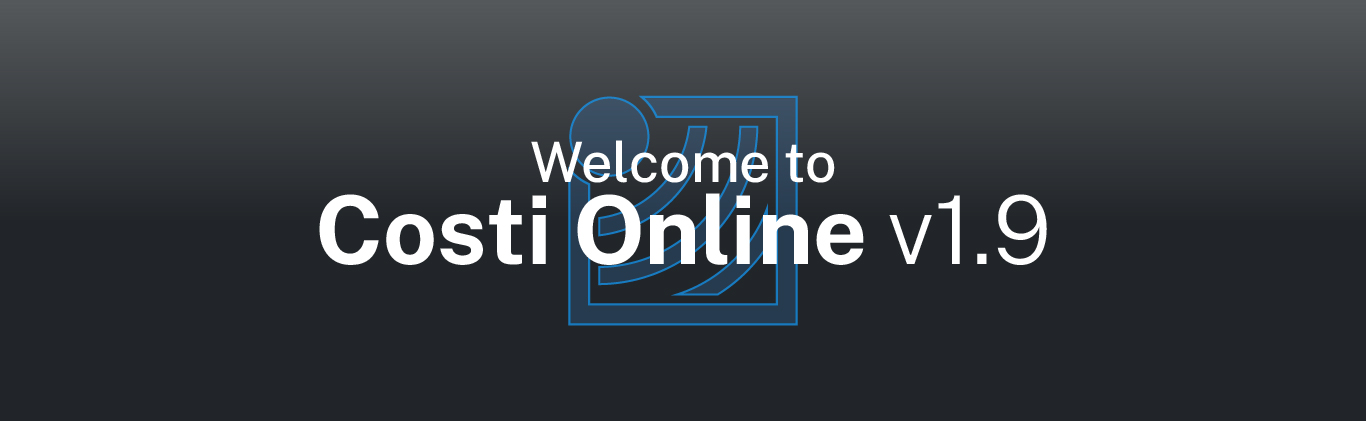
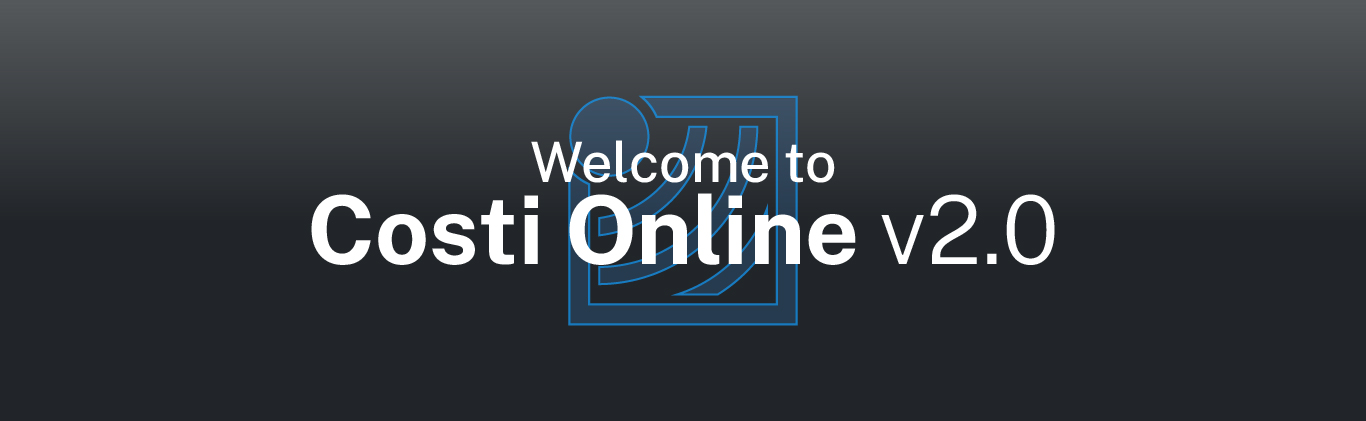
2.0.0 release! Announcement feature completed, updated home page slides and version information in gradle

Changed region(s): [[0.2152, 0.4632, 0.7994, 0.6485]]

diff --git a/src/main/resources/templates/main/Home.html b/src/main/resources/templates/main/Home.html
@@ -12,6 +12,16 @@
         <button type="button" data-bs-target="#desktop" data-bs-slide-to="0" class="active"></button>
         <button type="button" data-bs-target="#desktop" data-bs-slide-to="1"></button>
         <button type="button" data-bs-target="#desktop" data-bs-slide-to="2"></button>
+        <button type="button" data-bs-target="#desktop" data-bs-slide-to="3"></button>
+        <button type="button" data-bs-target="#desktop" data-bs-slide-to="4"></button>
+        <button type="button" data-bs-target="#desktop" data-bs-slide-to="5"></button>
+        <button type="button" data-bs-target="#desktop" data-bs-slide-to="6"></button>
+        <button type="button" data-bs-target="#desktop" data-bs-slide-to="7"></button>
+        <button type="button" data-bs-target="#desktop" data-bs-slide-to="8"></button>
+        <button type="button" data-bs-target="#desktop" data-bs-slide-to="9"></button>
+        <button type="button" data-bs-target="#desktop" data-bs-slide-to="10"></button>
+        <button type="button" data-bs-target="#desktop" data-bs-slide-to="11"></button>
+        <button type="button" data-bs-target="#desktop" data-bs-slide-to="12"></button>
     </div>
 
     <!-- The slideshow/carousel -->
@@ -24,16 +34,79 @@
             </div>
         </div>
         <div class="carousel-item">
-            <img th:src="@{/images/Slideshow/SJSU.jpg}" alt="Paramount Plus" class="d-block" style="width:100%">
+            <img th:src="@{/images/Slideshow/City.jpg}" alt="City" class="d-block" style="width:100%">
             <div class="carousel-caption">
-                <h3>Summer 2022 Break</h3>
+                <h3></h3>
+                <p></p>
             </div>
         </div>
         <div class="carousel-item">
-            <img th:src="@{/images/Slideshow/21.jpg}" alt="21" class="d-block" style="width:100%">
+            <img th:src="@{/images/Slideshow/Disney.jpg}" alt="Disney" class="d-block" style="width:100%">
             <div class="carousel-caption">
-                <h3>Costi Turns 21</h3>
-                <p>July 13th</p>
+                <h3>Disney Trip</h3>
+                <p></p>
+            </div>
+        </div>
+        <div class="carousel-item">
+            <img th:src="@{/images/Slideshow/East.jpg}" alt="East" class="d-block" style="width:100%">
+            <div class="carousel-caption">
+                <h3>East Coast Trip</h3>
+                <p></p>
+            </div>
+        </div>
+        <div class="carousel-item">
+            <img th:src="@{/images/Slideshow/Fair.jpg}" alt="Fair" class="d-block" style="width:100%">
+            <div class="carousel-caption">
+                <h3></h3>
+                <p></p>
+            </div>
+        </div>
+        <div class="carousel-item">
+            <img th:src="@{/images/Slideshow/FMF.jpg}" alt="FMF" class="d-block" style="width:100%">
+            <div class="carousel-caption">
+                <h3>Flea Market Finds</h3>
+                <p></p>
+            </div>
+        </div>
+        <div class="carousel-item">
+            <img th:src="@{/images/Slideshow/Ga.jpg}" alt="Great America" class="d-block" style="width:100%">
+            <div class="carousel-caption">
+                <h3>SJSU Great America Trip</h3>
+                <p></p>
+            </div>
+        </div>
+        <div class="carousel-item">
+            <img th:src="@{/images/Slideshow/Monterey.jpg}" alt="Monterey" class="d-block" style="width:100%">
+            <div class="carousel-caption">
+                <h3></h3>
+                <p></p>
+            </div>
+        </div>
+        <div class="carousel-item">
+            <img th:src="@{/images/Slideshow/MontereyHangout.jpg}" alt="MontereyHangout" class="d-block" style="width:100%">
+            <div class="carousel-caption">
+                <h3>Monterey Hangout</h3>
+                <p></p>
+            </div>
+        </div>
+        <div class="carousel-item">
+            <img th:src="@{/images/Slideshow/SurpriseBirthday.jpg}" alt="SurpriseBirthday" class="d-block" style="width:100%">
+            <div class="carousel-caption">
+                <h3>Surprise Birthday</h3>
+                <p></p>
+            </div>
+        </div>
+        <div class="carousel-item">
+            <img th:src="@{/images/Slideshow/Vegas.jpg}" alt="Vegas" class="d-block" style="width:100%">
+            <div class="carousel-caption">
+                <h3>Vegas Trip</h3>
+                <p></p>
+            </div>
+        </div>
+        <div class="carousel-item">
+            <img th:src="@{/images/Slideshow/SJSU.jpg}" alt="SJSU" class="d-block" style="width:100%">
+            <div class="carousel-caption">
+                <h3>Summer 2022 Break</h3>
             </div>
         </div>
     </div>
@@ -55,6 +128,16 @@
         <button type="button" data-bs-target="#mobile" data-bs-slide-to="0" class="active"></button>
         <button type="button" data-bs-target="#mobile" data-bs-slide-to="1"></button>
         <button type="button" data-bs-target="#mobile" data-bs-slide-to="2"></button>
+        <button type="button" data-bs-target="#mobile" data-bs-slide-to="3"></button>
+        <button type="button" data-bs-target="#mobile" data-bs-slide-to="4"></button>
+        <button type="button" data-bs-target="#mobile" data-bs-slide-to="5"></button>
+        <button type="button" data-bs-target="#mobile" data-bs-slide-to="6"></button>
+        <button type="button" data-bs-target="#mobile" data-bs-slide-to="7"></button>
+        <button type="button" data-bs-target="#mobile" data-bs-slide-to="8"></button>
+        <button type="button" data-bs-target="#mobile" data-bs-slide-to="9"></button>
+        <button type="button" data-bs-target="#mobile" data-bs-slide-to="10"></button>
+        <button type="button" data-bs-target="#mobile" data-bs-slide-to="11"></button>
+        <button type="button" data-bs-target="#mobile" data-bs-slide-to="12"></button>
     </div>
 
     <!-- The slideshow/carousel -->
@@ -67,16 +150,73 @@
             </div>
         </div>
         <div class="carousel-item">
-            <img th:src="@{/images/MobileSlideshow/SJSUm.jpg}" alt="Paramount Plus" class="d-block" style="width:100%">
+            <img th:src="@{/images/MobileSlideshow/Citym.jpg}" alt="City" class="d-block" style="width:100%">
             <div class="carousel-caption">
-                <h3>Summer 2022 Break</h3>
+                <h3></h3>
+                <p></p>
             </div>
         </div>
         <div class="carousel-item">
-            <img th:src="@{/images/MobileSlideshow/21m.jpg}" alt="21" class="d-block" style="width:100%">
+            <img th:src="@{/images/MobileSlideshow/Disneym.jpg}" alt="Disney" class="d-block" style="width:100%">
             <div class="carousel-caption">
-                <h3>Costi Turns 21</h3>
-                <p>July 13th</p>
+                <h3>Disney Trip</h3>
+                <p></p>
+            </div>
+        </div>
+        <div class="carousel-item">
+            <img th:src="@{/images/MobileSlideshow/Eastm.jpg}" alt="East" class="d-block" style="width:100%">
+            <div class="carousel-caption">
+                <h3>East Coast Trip</h3>
+                <p></p>
+            </div>
+        </div>
+        <div class="carousel-item">
+            <img th:src="@{/images/MobileSlideshow/Fairm.jpg}" alt="Fair" class="d-block" style="width:100%">
+            <div class="carousel-caption">
+                <h3></h3>
+                <p></p>
+            </div>
+        </div>
+        <div class="carousel-item">
+            <img th:src="@{/images/MobileSlideshow/FMFm.jpg}" alt="FMF" class="d-block" style="width:100%">
+            <div class="carousel-caption">
+                <h3>Flea Market Finds</h3>
+                <p></p>
+            </div>
+        </div>
+        <div class="carousel-item">
+            <img th:src="@{/images/MobileSlideshow/Gam.jpg}" alt="Great America" class="d-block" style="width:100%">
+            <div class="carousel-caption">
+                <h3>SJSU Great America Trip</h3>
+                <p></p>
+            </div>
+        </div>
+        <div class="carousel-item">
+            <img th:src="@{/images/MobileSlideshow/Montereym.jpg}" alt="Monterey" class="d-block" style="width:100%">
+            <div class="carousel-caption">
+                <h3></h3>
+                <p></p>
+            </div>
+        </div>
+        <div class="carousel-item">
+            <img th:src="@{/images/MobileSlideshow/MontereyHangoutm.jpg}" alt="MontereyHangout" class="d-block" style="width:100%">
+            <div class="carousel-caption">
+                <h3>Monterey Hangout</h3>
+                <p></p>
+            </div>
+        </div>
+        <div class="carousel-item">
+            <img th:src="@{/images/MobileSlideshow/SurpriseBirthdaym.jpg}" alt="SurpriseBirthday" class="d-block" style="width:100%">
+            <div class="carousel-caption">
+                <h3>Surprise Birthday</h3>
+                <p></p>
+            </div>
+        </div>
+        <div class="carousel-item">
+            <img th:src="@{/images/MobileSlideshow/Vegasm.jpg}" alt="Vegas" class="d-block" style="width:100%">
+            <div class="carousel-caption">
+                <h3>Vegas Trip</h3>
+                <p></p>
             </div>
         </div>
     </div>

diff --git a/src/main/resources/templates/Components.html b/src/main/resources/templates/Components.html
@@ -61,7 +61,7 @@
     <button type="button" class="btn-close" data-bs-dismiss="alert" aria-label="Close"></button>
 </div>
 
-<div th:fragment="message" th:if="${message != null}" class="alert alert-dismissible fade show" style="background-color:rgba(0,0,0,.1)">
+<div th:fragment="message" th:if="${message != null}" class="alert alert-dismissible fade show" style="background-color:rgba(0,0,0,.1); border: 1px black solid;">
     <div class="fw-bold d-inline" th:text="${message.title}"></div>
     <div class="d-inline" th:text="${message.body}"></div>
     <button type="button" class="btn-close" data-bs-dismiss="alert" aria-label="Close"></button>
